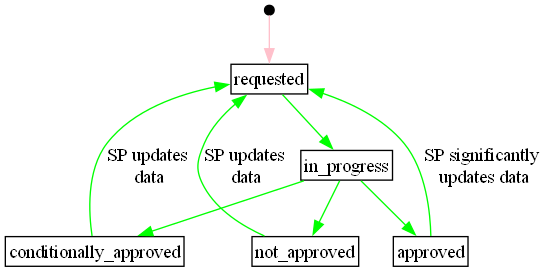
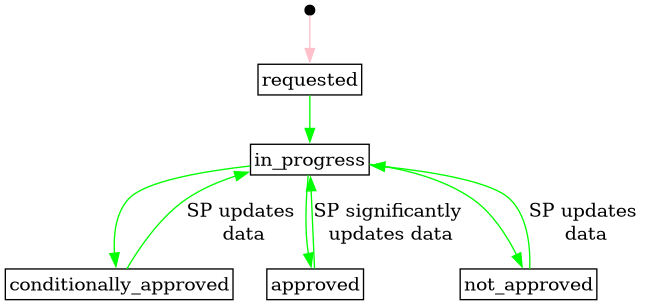
docs: improve resource docs (mainly validation rules and status) (FLEX-557) (#129)

diff --git a/docs/resources/controllable_unit.md b/docs/resources/controllable_unit.md
@@ -22,6 +22,14 @@ The UUIDs are generated by the system when a CU is created.
 
 ## Status transitions for grid validation
 
+The following diagram shows the transitions for the grid validation status of
+controllable units.
+It normally starts as `pending`, then the system operator takes over to conclude
+on their validation or signal that information is missing.
+On any change to a technical information on a controllable unit or one of its
+technical resources, the grid validation status is reset if not already
+`pending` or `in_progress`.
+
 [Full Size](../diagrams/controllable_unit_grid_validation_status.png)
 |
 [Plantuml description](../diagrams/controllable_unit_grid_validation_status.plantuml)
@@ -32,11 +40,12 @@ The UUIDs are generated by the system when a CU is created.
 
 ## Status transitions for controllable unit
 
-The following diagram shows the status and its transition for controllable unit.
+The following diagram shows the status and its transitions for controllable
+unit.
 The Service Provider is responsible for creating a new controllable unit.
 Initially, the status is set to "new." Once the CU registration is complete, the
 Service Provider updates the status to "active." After termination, the status
-can only be edited by a FIS operator
+can only be edited by a FIS operator.
 
 [Full Size](../diagrams/controllable_unit_status.png)
 |
@@ -78,19 +87,9 @@ can only be edited by a FIS operator
 
 ## Validation Rules
 
-### Inter-Field Validation
-
 | Validation rule key | Validation rule                                                                                                                     | Status |
 |---------------------|-------------------------------------------------------------------------------------------------------------------------------------|--------|
-| CU-IFV001           | If both `minimum_duration` and `maximum_duration` are specified, then the minimum duration must be lower than the maximum duration. | DONE   |
-
-### Resource-Level Validation
-
-No validation rules
-
-### Process-Level Validation
-
-No validation rules.
+| CU-VAL001           | If both `minimum_duration` and `maximum_duration` are specified, then the minimum duration must be lower than the maximum duration. | DONE   |
 
 ## Notifications
 

diff --git a/docs/resources/service_providing_group.md b/docs/resources/service_providing_group.md
@@ -2,6 +2,26 @@
 
 A group of controllable units to be used in a flexibility product on the market.
 
+## Status transitions for service providing group
+
+The following diagram shows the status and its transitions for service providing
+groups.
+
+The service provider is responsible for creating a new service providing group.
+Initially, the status is set to `new`. Once the SPG registration is complete,
+the service provider updates the status to `active`. SPG grid prequalification
+resources are created on activation for each impacted system operator.
+The service provider can terminate the service providing group at any time.
+After termination, the status can only be edited by a FIS operator.
+
+[Full Size](../diagrams/service_providing_group_status.png)
+|
+[Plantuml description](../diagrams/service_providing_group_status.plantuml)
+|
+[How to read the diagram](./index.md#status-and-transitions)
+
+![Service Providing Group Registration Status](../diagrams/service_providing_group_status.png)
+
 ## Relevant links
 
 * [API Documentation](/api/v0/#/operations/list_service_providing_group)
@@ -20,19 +40,9 @@ A group of controllable units to be used in a flexibility product on the market.
 
 ## Validation Rules
 
-### Inter-Field Validation
-
-No validation rules.
-
-### Resource-Level Validation
-
 | Validation rule key | Validation rule                                       | Status |
 |---------------------|-------------------------------------------------------|--------|
-| SPG-RLV001          | An empty service providing group cannot be activated. | DONE   |
-
-### Process-Level Validation
-
-No validation rules.
+| SPG-VAL001          | An empty service providing group cannot be activated. | DONE   |
 
 ## Notifications
 

diff --git a/docs/resources/service_providing_group_product_application.md b/docs/resources/service_providing_group_product_application.md
@@ -1,9 +1,19 @@
 # Service providing group product application
 
-Relation between a service providing group and a system operator for a product
-type, for the SPG to deliver a product to the SO later.
+Relation uniquely linking a service providing group and a system operator for a
+product type, for the SPG to deliver a product to the SO later.
 
 ## Application status transitions
+
+The following diagram shows the status transitions for service providing group
+applications. This resource supports the application process and is updated as
+it progresses.
+
+The service provider is responsible for creating a new SPG product application.
+Initially, the status is set to `requested`. The system operator then takes over
+until the application is either `prequalified`, `verified` or `rejected`. If it
+rejected, the service provider can make updates and propose the application
+again.
 
 [Full Size](../diagrams/service_providing_group_product_application_status.png)
 |
@@ -35,7 +45,10 @@ type, for the SPG to deliver a product to the SO later.
 
 ## Validation Rules
 
-No validation rules.
+| Validation rule key | Validation rule                                                                   | Status |
+|---------------------|-----------------------------------------------------------------------------------|--------|
+| SPGPA-VAL001        | Product applications can only be created on active SPGs.                          | DONE   |
+| SPGPA-VAL002        | Product applications can only be created on active system operator product types. | DONE   |
 
 ## Notifications
 

diff --git a/docs/resources/controllable_unit_service_provider.md b/docs/resources/controllable_unit_service_provider.md
@@ -24,20 +24,10 @@ of one service provider per activation period.
 
 ## Validation Rules
 
-### Inter-Field Validation
-
 | Validation rule key | Validation rule                                                                                                 | Status |
 |---------------------|-----------------------------------------------------------------------------------------------------------------|--------|
-| CUSP-IFV001         | Valid time is frozen after 2 weeks for SP.                                                                      | DONE   |
-| CUSP-IFV002         | New contracts added by SP must be created 2-4 weeks ahead of their start unless the CU has no current contract. | DONE   |
-
-### Resource-Level Validation
-
-No validation rules
-
-### Process-Level Validation
-
-No validation rules.
+| CUSP-VAL001         | Valid time is frozen after 2 weeks for SP.                                                                      | DONE   |
+| CUSP-VAL002         | New contracts added by SP must be created 2-4 weeks ahead of their start unless the CU has no current contract. | DONE   |
 
 ## Notifications
 

diff --git a/docs/resources/service_providing_group_grid_prequalification.md b/docs/resources/service_providing_group_grid_prequalification.md
@@ -1,7 +1,7 @@
 # Service Providing Group Grid Prequalification
 
 A resource tracking the grid prequalification status of a service providing
-group.
+group. One SPG grid prequalification per impacted system operator.
 
 ## Status transitions for grid prequalification
 
@@ -32,16 +32,6 @@ group.
 | <a name="field-recorded_by" href="#field-recorded_by">recorded_by</a>                                                 | The identity that recorded the resource.                                                                 | bigint<br/>Read only                                                                                                                                                                                          |                                                                   |
 
 ## Validation Rules
-
-### Inter-Field Validation
-
-No validation rules.
-
-### Resource-Level Validation
-
-No validation rules
-
-### Process-Level Validation
 
 No validation rules.
 

diff --git a/docs/resources/service_providing_group_membership.md b/docs/resources/service_providing_group_membership.md
@@ -1,6 +1,8 @@
 # Service Providing Group Membership
 
 The relation that links a controllable unit to a service providing group.
+A service providing group can contain several controllable units, and a
+controllable unit can belong to several groups at the same time.
 
 ## Relevant links
 
@@ -20,16 +22,6 @@ The relation that links a controllable unit to a service providing group.
 | <a name="field-recorded_by" href="#field-recorded_by">recorded_by</a>                                              | The identity that recorded the resource.                                                                                                          | bigint<br/>Read only                   |                                                                   |
 
 ## Validation Rules
-
-### Inter-Field Validation
-
-No validation rules.
-
-### Resource-Level Validation
-
-No validation rules
-
-### Process-Level Validation
 
 No validation rules.
 

diff --git a/docs/resources/party.md b/docs/resources/party.md
@@ -42,20 +42,10 @@ generate a UUID as the business identifier.
 
 ## Validation Rules
 
-### Inter-Field Validation
-
 | Policy key | Policy                                                                              | Status |
 |------------|-------------------------------------------------------------------------------------|--------|
-| PTY-IFV001 | `business_id_type` is UUID if and only if the party is an `end_user`.               | DONE   |
-| PTY-IFV002 | `business_id` is not required if `business_id_type` is UUID (it will be generated). | DONE   |
-
-### Resource-Level Validation
-
-No validation rules
-
-### Process-Level Validation
-
-No validation rules.
+| PTY-VAL001 | `business_id_type` is UUID if and only if the party is an `end_user`.               | DONE   |
+| PTY-VAL002 | `business_id` is not required if `business_id_type` is UUID (it will be generated). | DONE   |
 
 ## Notifications
 

diff --git a/docs/resources/technical_resource.md b/docs/resources/technical_resource.md
@@ -4,7 +4,7 @@ This resource holds technical details about units and resources that the
 controllable unit consists of. The purpose of this resource is to register
 information that can help procuring system operators performing product
 pre-qualification and simplify that evaluation if controllable units are
-identical.
+identical. A controllable unit can contain several technical resources.
 
 ## Relevant links
 
@@ -23,16 +23,6 @@ identical.
 | <a name="field-recorded_by" href="#field-recorded_by">recorded_by</a>                            | The identity that recorded the resource.                                    | bigint<br/>Read only                   |                                                       |
 
 ## Validation Rules
-
-### Inter-Field Validation
-
-No validation rules.
-
-### Resource-Level Validation
-
-No validation rules
-
-### Process-Level Validation
 
 No validation rules.
 

diff --git a/docs/resources/entity_client.md b/docs/resources/entity_client.md
@@ -1,7 +1,7 @@
 # Entity client
 
 Client linked to an entity for client credentials and JWT grant authentication
-methods.
+methods. An entity can have several clients registered.
 
 ## Relevant links
 
@@ -22,16 +22,6 @@ methods.
 | <a name="field-recorded_by" href="#field-recorded_by">recorded_by</a>       | The identity that recorded the resource.                                                                                   | bigint<br/>Read only                                                                                    |                                 |
 
 ## Validation Rules
-
-### Inter-Field Validation
-
-No validation rules.
-
-### Resource-Level Validation
-
-No validation rules
-
-### Process-Level Validation
 
 No validation rules.
 

diff --git a/docs/resources/system_operator_product_type.md b/docs/resources/system_operator_product_type.md
@@ -1,7 +1,15 @@
 # System operator product type
 
 The relation that links a system operator to a type of product they want to buy
-on a flexibility market.
+on a flexibility market. The system operator creates one resource for each
+product type they ask for.
+
+## Status transitions for system operator product type
+
+The system operator can ask for a product type temporarily or periodically.
+The `status` field on the resource is there to give this information. A system
+operator product type resource always starts as `active`, but it can be marked
+`inactive` when the system operator does not need the product.
 
 ## Relevant links
 

diff --git a/docs/resources/product_type.md b/docs/resources/product_type.md
@@ -1,6 +1,7 @@
 # Product type
 
 A type of product to be bought by system operators on a flexibility market.
+This resource is a read-only enumeration.
 
 ## Context
 
@@ -56,16 +57,6 @@ as input.
 | <a name="field-notes" href="#field-notes">notes</a>                   | Additional information about a product type.          | text<br/>Max length: `1024`<br/>Read only |           |
 
 ## Validation Rules
-
-### Inter-Field Validation
-
-No validation rules.
-
-### Resource-Level Validation
-
-No validation rules
-
-### Process-Level Validation
 
 No validation rules.
 

diff --git a/docs/resources/service_provider_product_application.md b/docs/resources/service_provider_product_application.md
@@ -41,7 +41,9 @@ application is updated as the process and lifecycle of the application progresse
 
 ## Validation Rules
 
-No validation rules
+| Validation rule key | Validation rule                                                           | Status |
+|---------------------|---------------------------------------------------------------------------|--------|
+| SPPA-VAL001         | Inserted `product_type_ids` must be active product types asked by the SO. | DONE   |
 
 ## Notifications
 
